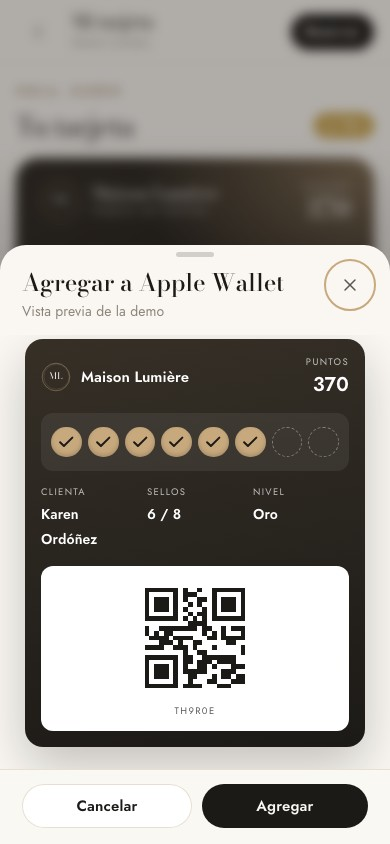
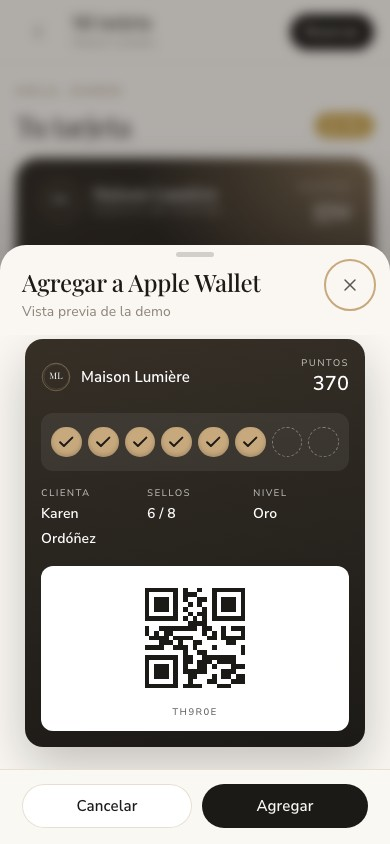
Letra Playfair + Nunito Sans y comparativa en quetzales más clara

diff --git a/Propuesta-Salon.html b/Propuesta-Salon.html
@@ -243,13 +243,35 @@ h3 { font-size: 24px; }
 @media (max-width: 880px) { .vivo-pasos { grid-template-columns: 1fr 1fr; } .escena { grid-template-columns: 1fr; justify-items: center; } .telefono { width: min(280px, 76vw); margin-bottom: 0; } .cable { display: none; } .tablet { width: 100%; } }
 
 /* comparativa */
-.tabla-env { margin-top: 40px; background: var(--tarjeta); border-radius: var(--r); box-shadow: var(--sombra); overflow-x: auto; }
-table { width: 100%; border-collapse: collapse; font-size: 15px; min-width: 640px; }
-th, td { padding: 16px 18px; text-align: left; border-bottom: 1px solid var(--linea); vertical-align: top; }
-thead th { font-size: 11.5px; letter-spacing: .14em; text-transform: uppercase; color: var(--tenue); font-weight: 500; }
-th.nos, td.nos { background: var(--t1); font-weight: 600; color: var(--tinta); }
-tbody th { font-weight: 500; color: var(--tinta2); }
-.si { color: var(--acento-texto); font-weight: 600; } .no { color: var(--tenue); }
+.tabla-env { margin-top: 40px; background: var(--tarjeta); border-radius: var(--r); box-shadow: var(--sombra); overflow: hidden; }
+.comp { width: 100%; border-collapse: collapse; font-size: 15px; table-layout: fixed; }
+.comp th, .comp td { padding: 16px 14px; text-align: center; border-bottom: 1px solid var(--linea); vertical-align: middle; }
+.comp tr:last-child th, .comp tr:last-child td { border-bottom: 0; }
+.comp thead th { font: 600 14px var(--f-texto); color: var(--tinta2); padding-top: 22px; }
+.comp thead th.nos { font: italic 500 19px var(--f-titulo); color: var(--acento-texto); }
+.comp tbody th { text-align: left; font-weight: 500; color: var(--tinta); width: 30%; padding-left: 22px; }
+.comp .nos { background: var(--t1); }
+.comp td { color: var(--tinta2); font-size: 14px; }
+.comp .q { display: block; font: 600 17px var(--f-texto); color: var(--tinta); white-space: nowrap; }
+.comp td.nos .q { color: var(--acento-texto); font-size: 19px; }
+.comp small { display: block; font-size: 12.5px; color: var(--tenue); margin-top: 2px; line-height: 1.35; }
+.ok { display: inline-grid; place-items: center; width: 26px; height: 26px; border-radius: 50%; background: var(--acento-texto); vertical-align: middle; }
+.ok::after { content: ""; width: 10px; height: 5px; margin-top: -3px; border-left: 2px solid #fff; border-bottom: 2px solid #fff; transform: rotate(-45deg); }
+.nada { color: color-mix(in srgb, var(--tenue) 70%, transparent); font-size: 18px; }
+.sr { position: absolute; width: 1px; height: 1px; overflow: hidden; clip: rect(0 0 0 0); }
+@media (max-width: 720px) {
+  .comp thead { display: none; }
+  .comp, .comp tbody, .comp tr { display: block; }
+  .comp tr { display: grid; grid-template-columns: 1fr 1fr; border-bottom: 1px solid var(--linea); padding: 14px 16px 16px; gap: 8px; }
+  .comp tr:last-child { border-bottom: 0; }
+  .comp tbody th { grid-column: 1 / -1; width: auto; padding: 0 0 4px; border: 0; font-size: 15.5px; }
+  .comp td { display: flex; align-items: center; justify-content: space-between; gap: 8px; text-align: right; padding: 10px 12px; border: 0; border-radius: 14px; background: var(--fondo); min-width: 0; }
+  .comp td.nos { background: var(--t1); }
+  .comp td::before { content: attr(data-l); font-size: 12.5px; color: var(--tenue); text-align: left; }
+  .comp td.nos::before { color: var(--acento-texto); font-weight: 600; }
+  .comp td:has(.q) { flex-direction: column; align-items: flex-start; text-align: left; gap: 2px; }
+  .comp .q { white-space: normal; }
+}
 .nota { font-size: 12.5px; color: var(--tenue); margin-top: 12px; }
 
 /* calculadora */
@@ -402,6 +424,24 @@ function comboHTML() {
       <p class="tx2" style="margin-top:10px">Reservas en línea, recordatorios, agenda y la tarjeta de sellos para que sus clientas vuelvan. Cuando el salón crezca, se pasa a Boutique pagando solo la diferencia.</p></div>
     <div class="combo-p"><div class="precio"><b>${Q(conIva(COMBO.mes))}</b><small class="tenue"> / mes</small></div><div class="activ">Activación: <b style="color:var(--tinta)">${Q(conIva(COMBO.activ))}</b> <s>${Q(conIva(2500 + 1200))}</s></div>
       <p class="nota">¿Con Apple y Google Wallet? + ${Q(conIva(2800))} de activación y ${Q(conIva(300))} al mes.</p></div></div>`;
+}
+
+/* ---------- comparativa (en quetzales) ---------- */
+function comparativaHTML() {
+  const SI = '<span class="ok" role="img" aria-label="Sí"></span>', NO = '<span class="nada" role="img" aria-label="No">—</span>';
+  const cols = ["Tu sistema", "Fresha", "Vagaro", "Boulevard"];
+  const filas = [
+    ["Al mes, con 6 personas", [`<b class="q">${P.generico ? "Q1,500" : "Q850"}</b><small>fijo, sin comisiones</small>`, '<b class="q">≈ Q690</b><small>+ 20 % por clienta nueva</small>', '<b class="q">≈ Q460–770</b><small>+ extras</small>', '<b class="q">≈ Q1,300</b><small>o más</small>']],
+    ["Se paga en quetzales", [SI, NO, NO, NO]],
+    ["Página con tu marca y colores", [SI, "Solo un perfil", "Básica", SI]],
+    ["Diseñador de uñas en la cita", [SI, NO, NO, NO]],
+    ["Recepción en vivo", [SI, "Básica", "Básica", SI]],
+    ["Las clientas quedan contigo", [SI, NO, NO, NO]],
+    ["Ayuda por WhatsApp en español", [SI, NO, NO, NO]]
+  ];
+  return `<table class="comp"><thead><tr><th><span class="sr">Qué incluye</span></th>${cols.map((c, i) => `<th class="${i ? "" : "nos"}">${c}</th>`).join("")}</tr></thead><tbody>`
+    + filas.map(([n, v]) => `<tr><th scope="row">${n}</th>${v.map((x, i) => `<td class="${i ? "" : "nos"}" data-l="${cols[i]}">${x}</td>`).join("")}</tr>`).join("")
+    + `</tbody></table>`;
 }
 
 /* ---------- paletas pastel ---------- */
@@ -634,18 +674,8 @@ $("raiz").innerHTML = `
 
 <section class="sec" id="comparativa"><div class="cont">
   ${cab("05", "Reservas en línea", "¿Por qué propio <em>y no una plataforma?</em>", `Fresha, Vagaro y Boulevard son buenas herramientas, pero cobran en dólares, por persona o por comisión, y la clienta termina en su app, no en la de ${esc(CLIENTE)}.`)}
-  <div class="tabla-env rev"><table>
-    <thead><tr><th></th><th class="nos">Sistema propio</th><th>Fresha</th><th>Vagaro</th><th>Boulevard / Mangomint</th></tr></thead>
-    <tbody>
-      <tr><th>Costo mensual con 6 personas</th><td class="nos">${P.generico ? "Q1,500 fijo" : "Desde Q850 fijo"}</td><td>Por persona y comisión por clienta nueva</td><td>≈ US$60–100 + extras</td><td>Desde ≈ US$160–175</td></tr>
-      <tr><th>Precio en quetzales</th><td class="nos si">Sí</td><td class="no">No</td><td class="no">No</td><td class="no">No</td></tr>
-      <tr><th>Tu página con tu marca y tus colores</th><td class="nos si">Sí, completa</td><td>Perfil dentro de su app</td><td>Perfil y página básica</td><td>Sí</td></tr>
-      <tr><th>Diseñador de uñas en la cita</th><td class="nos si">Sí</td><td class="no">No</td><td class="no">No</td><td class="no">No</td></tr>
-      <tr><th>Recepción en vivo</th><td class="nos si">Sí</td><td>Básica</td><td>Básica</td><td class="si">Sí</td></tr>
-      <tr><th>Datos de tus clientas</th><td class="nos si">Tuyos, descargables</td><td>En su plataforma</td><td>En su plataforma</td><td>En su plataforma</td></tr>
-      <tr><th>Soporte</th><td class="nos si">Por WhatsApp, en español</td><td>Centro de ayuda</td><td>Centro de ayuda</td><td>Correo y chat</td></tr>
-    </tbody></table></div>
-  <p class="nota">Precios públicos aproximados en dólares a octubre de 2026. Pueden cambiar y no incluyen comisiones de procesamiento de pagos.</p>
+  <div class="tabla-env rev">${comparativaHTML()}</div>
+  <p class="nota">Precios aproximados en quetzales (US$1 ≈ Q7.70), octubre de 2026. Las plataformas cobran en dólares con tarjeta; pueden cambiar y no incluyen comisiones por pagos.</p>
 </div></section>
 
 <section class="sec t4" id="calculadora"><div class="cont">

diff --git a/marca.js b/marca.js
@@ -26,9 +26,9 @@ window.MARCA = {
     oscuro: "#1C1A17"
   },
   fuentes: {
-    titulo: "Bodoni Moda",
-    texto: "Jost",
-    url: "https://fonts.googleapis.com/css2?family=Bodoni+Moda:ital,opsz,wght@0,6..96,400..700;1,6..96,400..600&family=Jost:wght@300..800&display=swap"
+    titulo: "Playfair Display",
+    texto: "Nunito Sans",
+    url: "https://fonts.googleapis.com/css2?family=Playfair+Display:ital,wght@0,400..900;1,400..900&family=Nunito+Sans:ital,opsz,wght@0,6..12,300..800;1,6..12,300..800&display=swap"
   },
   /* Logo: monograma dibujado. Si se define logoImg, se usa la imagen. */
   logoImg: "",
